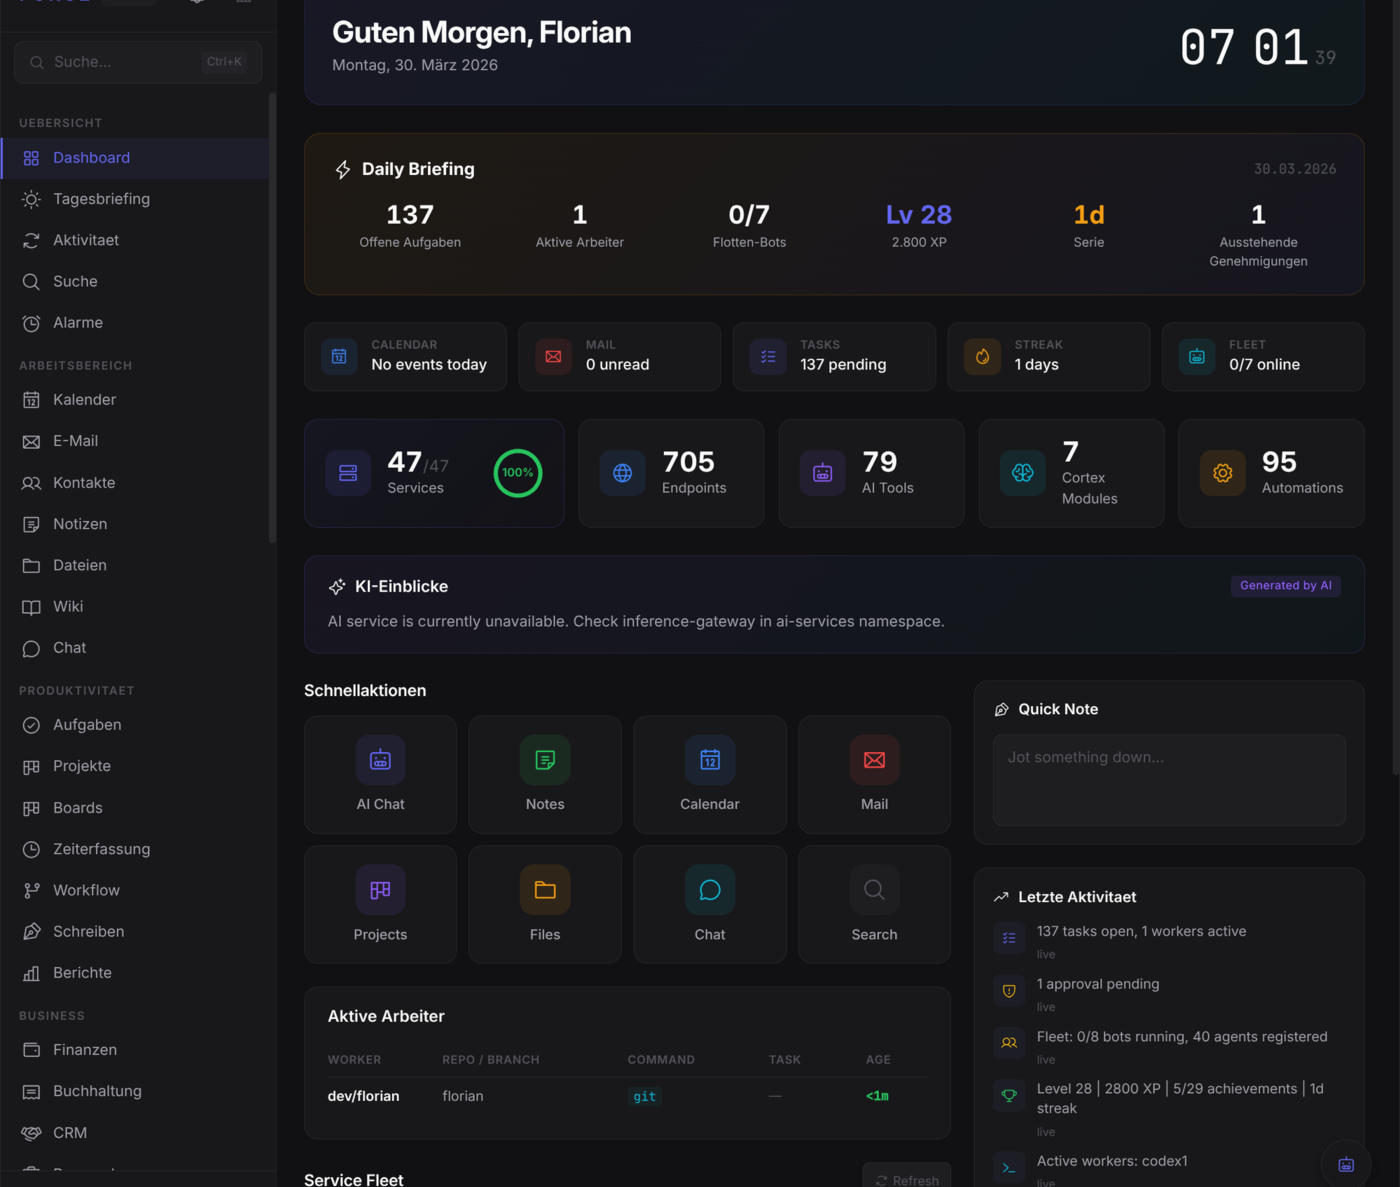
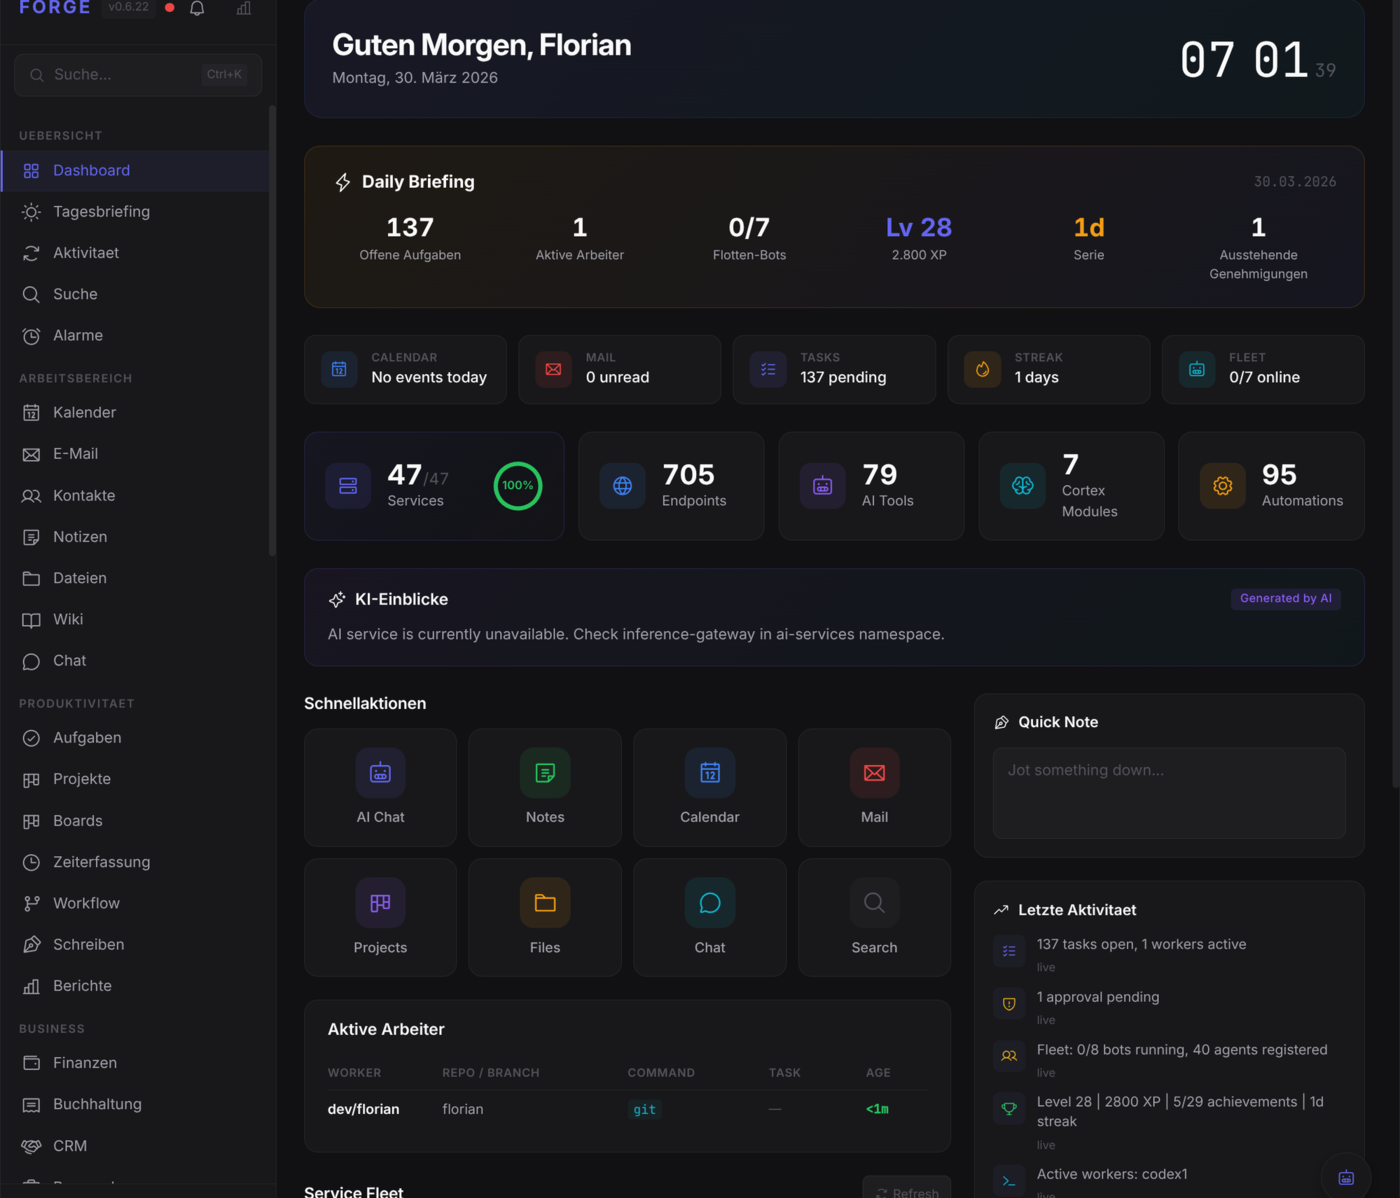
Fix screenshot (FORGE header visible), update stats to 136 pages, 97K lines, 1260 i18n

diff --git a/index.html b/index.html
@@ -153,7 +153,7 @@
         <div class="section-header"><h2>Forge Platform</h2><div class="line"></div></div>
         <div class="numbers" role="list">
           <div class="num-item" role="listitem"><div class="val">93</div><div class="lbl i18n-en">Rust crates</div><div class="lbl i18n-de" style="display:none">Rust Crates</div></div>
-          <div class="num-item" role="listitem"><div class="val">106</div><div class="lbl i18n-en">Dashboard pages</div><div class="lbl i18n-de" style="display:none">Dashboard-Seiten</div></div>
+          <div class="num-item" role="listitem"><div class="val">136</div><div class="lbl i18n-en">Dashboard pages</div><div class="lbl i18n-de" style="display:none">Dashboard-Seiten</div></div>
           <div class="num-item" role="listitem"><div class="val">267</div><div class="lbl">K8s Pods</div></div>
           <div class="num-item" role="listitem"><div class="val">8</div><div class="lbl i18n-en">AI agents</div><div class="lbl i18n-de" style="display:none">KI-Agenten</div></div>
           <div class="num-item" role="listitem"><div class="val">36K+</div><div class="lbl">Tests</div></div>
@@ -162,12 +162,12 @@
         <p class="prose i18n-de" style="display:none">Eine selbst gehostete Plattform auf Bare-Metal Kubernetes. <strong>93 Rust Crates</strong>, die jeweils als CLI-Tool auf meinem Laptop und als Microservice in Produktion laufen. Gleicher Code, zwei Laufzeiten.</p>
         <p class="prose i18n-en">The AI agents don't just answer questions. They operate infrastructure, analyze code, monitor markets, and coordinate through a custom agent bus. Multi-model: Claude, Gemini, Ollama. Protocol-native: MCP, ACP, A2A.</p>
         <p class="prose i18n-de" style="display:none">Die KI-Agenten beantworten nicht nur Fragen. Sie betreiben Infrastruktur, analysieren Code, beobachten Märkte und koordinieren sich über einen eigenen Agent Bus. Multi-Modell: Claude, Gemini, Ollama. Protokoll-nativ: MCP, ACP, A2A.</p>
-        <p class="prose i18n-en">The dashboard is <strong>SvelteKit 2 + Svelte 5</strong>, 75K lines, 1000+ i18n keys. Real-time WebSocket, 85 API integrations, GitOps visibility.</p>
-        <p class="prose i18n-de" style="display:none">Das Dashboard ist <strong>SvelteKit 2 + Svelte 5</strong>, 75K Zeilen, 1000+ i18n-Keys. Echtzeit-WebSocket, 85 API-Integrationen, GitOps-Übersicht.</p>
+        <p class="prose i18n-en">The dashboard is <strong>SvelteKit 2 + Svelte 5</strong>, 97K lines, 1260+ i18n keys. Real-time WebSocket, 85 API integrations, GitOps visibility.</p>
+        <p class="prose i18n-de" style="display:none">Das Dashboard ist <strong>SvelteKit 2 + Svelte 5</strong>, 75K Zeilen, 1260+ i18n-Keys. Echtzeit-WebSocket, 85 API-Integrationen, GitOps-Übersicht.</p>
         <div class="preview">
-          <img src="forge-dashboard.png" alt="Forge Platform Dashboard showing daily briefing, service health, fleet status, and quick actions" loading="lazy" width="1400" height="1191">
+          <img src="forge-dashboard.png" alt="Forge Platform Dashboard showing daily briefing, service health, fleet status, and quick actions" loading="lazy" width="1400" height="1198">
         </div>
-        <p class="preview-caption i18n-en">Live dashboard running on bare-metal Kubernetes. 106 pages, all self-hosted.</p>
+        <p class="preview-caption i18n-en">Live dashboard running on bare-metal Kubernetes. 136 pages, all self-hosted.</p>
         <p class="preview-caption i18n-de" style="display:none">Live-Dashboard auf Bare-Metal Kubernetes. 106 Seiten, komplett selbst gehostet.</p>
       </section>
 
